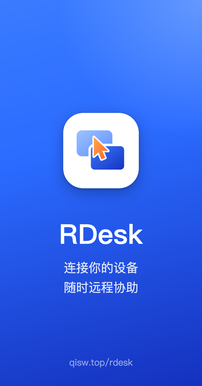
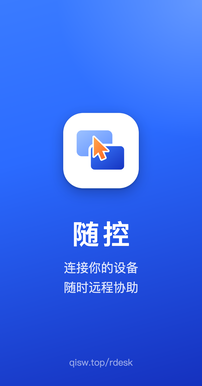
feat: 应用改名为「随控」
- 安装后显示名：Android 桌面、macOS（菜单、访达/程序坞本地化显示名，包路径仍为
  rdesk.app）、Windows 窗口标题、托盘、文件说明、开始菜单与桌面快捷方式均为「随控」
- 应用内文案、通知、无障碍服务名称统一为随控；修正 macOS 菜单残留的 APP_NAME
  占位符和 com.example 版权信息
- 安装器：名称、侧栏图与中文文案改为随控；升级时删除旧的 RDesk 快捷方式；
  安装目录、安装包文件名、Run 值名保持不变以兼容升级和应用内更新校验
- 官网模板、隐私政策与支持页改为「随控（原名 RDesk）」
- 包名、Bundle ID、服务器路径与 X-RDesk 协议头不变；iOS 显示名待下个版本与
  App Store 名称一起修改

Changed region(s): [[0.297, 0.5596, 0.7129, 0.6528]]

diff --git a/deploy/download.html b/deploy/download.html
@@ -1,7 +1,7 @@
 <!doctype html>
 <html lang="zh-CN"><head><meta charset="utf-8"><meta name="viewport" content="width=device-width,initial-scale=1">
-<title>RDesk 官网 · 电脑与手机远程连接</title>
-<meta name="description" content="RDesk 官方下载。获取 macOS、Windows、Android 安装包，或前往 App Store 安装 iPhone 与 iPad 版。查看远程开机配置与平台能力。">
+<title>随控远程官网 · 电脑与手机远程连接</title>
+<meta name="description" content="随控远程（原名 RDesk）官方下载。获取 macOS、Windows、Android 安装包，或前往 App Store 安装 iPhone 与 iPad 版。查看远程开机配置与平台能力。">
 <link rel="canonical" href="https://qisw.top/rdesk/"><link rel="icon" href="/rdesk/icon.png">
 <meta name="theme-color" content="#f5f7fb">
 <style>
@@ -11,7 +11,7 @@
 @media(prefers-color-scheme:dark){:root{--bg:#101621;--surface:#192230;--ink:#edf2fc;--muted:#abb7c9;--line:#303e52;--blue:#5b8cff;--soft:#1c2842;--power:#ff8a45;--power-soft:#3a2416}.button{background:#2b6bff}}
 @media(prefers-reduced-motion:reduce){html{scroll-behavior:auto}}
 </style></head><body>
-<header><nav aria-label="主导航"><a class="brand" href="/rdesk/"><img src="/rdesk/icon.png" alt="">RDesk</a><a href="#download">下载</a><a href="#wake">远程开机</a><a href="/rdesk/support">支持</a></nav></header>
+<header><nav aria-label="主导航"><a class="brand" href="/rdesk/"><img src="/rdesk/icon.png" alt="">随控</a><a href="#download">下载</a><a href="#wake">远程开机</a><a href="/rdesk/support">支持</a></nav></header>
 <main><section class="hero"><div class="eyebrow">RDESK · 官方网站</div><h1>电脑与手机，<br>连接到一起。</h1><p>从手边的设备访问另一台设备。同一账号的设备自动出现，点一下就能连接；家里的电脑关着，也能先远程开机。</p><div class="facts"><span>核心功能免费</span><span>四个平台入口</span><span>官方文件下载</span></div></section>
 <p class="status" role="status">2.3.0 全新界面上线：Windows、Android、Mac 可在官网下载，远程开机只需两个开关。iPhone 商店版本仍为 2.1.0；实际开机效果取决于电脑主板与网卡。</p>
 <section id="download" aria-labelledby="download-heading"><div class="section-head"><h2 id="download-heading">选择你的设备</h2><p>更新于 2026-09-28 · 各平台功能以说明为准</p></div><div class="platforms"><article class="platform" id="macos">
@@ -35,6 +35,6 @@
       <p class="requirements">iOS / iPadOS 13 或更高版本</p><p class="capability">可控制其他设备或分享屏幕；当前上架版尚不包含新的远程开机功能。</p>
       <a class="button" href="https://apps.apple.com/cn/app/id6796165712">前往 App Store<span aria-hidden="true"> ↗</span></a>
       <p class="install-note">商店仍为 2.1.0；2.3.0 新界面与远程开机尚未提交 App Store。</p></article></div></section>
-<section class="wake" id="wake"><div class="eyebrow">远程开机 · 2.3.0 起两个开关就能用</div><h2>出门在外，也能一键开机家里的电脑。</h2><p>家里一台常开的安卓手机或 Mac 作为开机助手，收到请求后在家庭局域网唤醒插网线的 Windows 电脑。电脑和手机登录同一账号即可，无需扫码配对，也不用在路由器开放公网端口。</p><div class="steps"><div><div class="number">01 / 家中助手</div><strong>打开「开机助手」</strong><span>在留在家里的安卓手机或 Mac 上登录，开启「作为家中开机助手」，保持供电联网。</span></div><div><div class="number">02 / Windows 电脑</div><strong>打开「允许远程开机」</strong><span>网线连接路由器，在电脑上开启开关；有线网卡和家中助手自动识别。主板 BIOS 需开启网络唤醒。</span></div><div><div class="number">03 / 外出时</div><strong>点橙色「开机」</strong><span>在设备列表中点关机电脑的「开机」按钮；助手离线时会自动改用其他在线助手。</span></div></div><p class="status">远程开机配套服务已部署。实际唤醒仍需电脑硬件支持，并完成家中助手配置；隔夜稳定性请按说明实测。</p><p>“已发出开机信号”只表示助手完成了广播，电脑启动并运行 RDesk 后才显示在线。当前 App Store 版本尚不包含远程开机。</p></section>
+<section class="wake" id="wake"><div class="eyebrow">远程开机 · 2.3.0 起两个开关就能用</div><h2>出门在外，也能一键开机家里的电脑。</h2><p>家里一台常开的安卓手机或 Mac 作为开机助手，收到请求后在家庭局域网唤醒插网线的 Windows 电脑。电脑和手机登录同一账号即可，无需扫码配对，也不用在路由器开放公网端口。</p><div class="steps"><div><div class="number">01 / 家中助手</div><strong>打开「开机助手」</strong><span>在留在家里的安卓手机或 Mac 上登录，开启「作为家中开机助手」，保持供电联网。</span></div><div><div class="number">02 / Windows 电脑</div><strong>打开「允许远程开机」</strong><span>网线连接路由器，在电脑上开启开关；有线网卡和家中助手自动识别。主板 BIOS 需开启网络唤醒。</span></div><div><div class="number">03 / 外出时</div><strong>点橙色「开机」</strong><span>在设备列表中点关机电脑的「开机」按钮；助手离线时会自动改用其他在线助手。</span></div></div><p class="status">远程开机配套服务已部署。实际唤醒仍需电脑硬件支持，并完成家中助手配置；隔夜稳定性请按说明实测。</p><p>“已发出开机信号”只表示助手完成了广播，电脑启动并运行随控后才显示在线。当前 App Store 版本尚不包含远程开机。</p></section>
 <section class="faq"><h2>下载前，你可能想了解</h2><details><summary>以后可以在应用里更新吗？</summary><p>从 2.2.1 开始，应用运行时会自动检查新版，也可进入「设置 → 关于 → 检查更新」。Windows、Android、Mac 可以下载并校验安装包，再按系统提示完成安装。旧版请先从官网手动安装一次。Mac 仍需拖入应用程序替换；iPhone 通过 App Store 更新，商店尚未发布的版本不会被当作更新。应用关闭时不会收到更新推送。</p></details><details><summary>哪些设备可以被远程操作？</summary><p>Android 与 macOS 可作为被控端。Windows 当前提供控制端与远程开机配置，尚不支持共享 Windows 桌面给别人操作。iPhone/iPad 可作控制端，也可分享屏幕，但不能接收远程触控。</p></details><details><summary>iPhone 可以像安卓一样下载文件安装吗？</summary><p>官网的苹果手机按钮会前往 App Store。普通 IPA 文件不能像 APK 一样在任意 iPhone 上直接安装。</p></details><details><summary>安装后需要开启哪些权限？</summary><p>Mac 被控需要屏幕录制与辅助功能权限；Android 屏幕共享和远程操作按应用提示授权。作为开机助手时只需网络、通知与后台运行，不要求录屏或无障碍；Mac 助手不需要额外权限。</p></details><details><summary>远程开机为什么需要实测？</summary><p>不同主板、网卡、Windows 电源状态及安卓后台策略存在差异。先测试睡眠与刚关机，再测试蜂窝网络、隔夜、24 小时和 48 小时。失败时先看设备页里家中助手是否在线，再检查 BIOS、网卡的网络唤醒设置和 Windows「快速启动」。</p></details><details><summary>我的系统版本能安装吗？</summary><p>Mac 新版要求 macOS 12 或更高版本；Windows 支持 Windows 10/11 x64；Android 要求 7.0 或更高版本；App Store 当前版本支持 iOS/iPadOS 13 或更高版本，之后的新版需要 iOS/iPadOS 15。请下载与你设备相符的安装包。</p></details></section></main>
-<footer><span>© 2026 RDesk · QSW</span><a href="https://qisw.top/rdesk/dl/SHA256SUMS.txt">全部文件校验值</a><a href="/rdesk/support">技术支持</a><a href="/rdesk/privacy">隐私政策</a><a href="mailto:641742030@qq.com">联系我们</a></footer></body></html>
+<footer><span>© 2026 随控远程 · QSW</span><a href="https://qisw.top/rdesk/dl/SHA256SUMS.txt">全部文件校验值</a><a href="/rdesk/support">技术支持</a><a href="/rdesk/privacy">隐私政策</a><a href="mailto:641742030@qq.com">联系我们</a></footer></body></html>

diff --git a/deploy/index.html b/deploy/index.html
@@ -1,7 +1,7 @@
 <!doctype html>
 <html lang="zh-CN"><head><meta charset="utf-8"><meta name="viewport" content="width=device-width,initial-scale=1">
-<title>RDesk 官网 · 电脑与手机远程连接</title>
-<meta name="description" content="RDesk 官方下载。获取 macOS、Windows、Android 安装包，或前往 App Store 安装 iPhone 与 iPad 版。查看远程开机配置与平台能力。">
+<title>随控远程官网 · 电脑与手机远程连接</title>
+<meta name="description" content="随控远程（原名 RDesk）官方下载。获取 macOS、Windows、Android 安装包，或前往 App Store 安装 iPhone 与 iPad 版。查看远程开机配置与平台能力。">
 <link rel="canonical" href="https://qisw.top/rdesk/"><link rel="icon" href="/rdesk/icon.png">
 <meta name="theme-color" content="#f5f7fb">
 <style>
@@ -11,7 +11,7 @@
 @media(prefers-color-scheme:dark){:root{--bg:#101621;--surface:#192230;--ink:#edf2fc;--muted:#abb7c9;--line:#303e52;--blue:#5b8cff;--soft:#1c2842;--power:#ff8a45;--power-soft:#3a2416}.button{background:#2b6bff}}
 @media(prefers-reduced-motion:reduce){html{scroll-behavior:auto}}
 </style></head><body>
-<header><nav aria-label="主导航"><a class="brand" href="/rdesk/"><img src="/rdesk/icon.png" alt="">RDesk</a><a href="#download">下载</a><a href="#wake">远程开机</a><a href="/rdesk/support">支持</a></nav></header>
+<header><nav aria-label="主导航"><a class="brand" href="/rdesk/"><img src="/rdesk/icon.png" alt="">随控</a><a href="#download">下载</a><a href="#wake">远程开机</a><a href="/rdesk/support">支持</a></nav></header>
 <main><section class="hero"><div class="eyebrow">RDESK · 官方网站</div><h1>电脑与手机，<br>连接到一起。</h1><p>从手边的设备访问另一台设备。同一账号的设备自动出现，点一下就能连接；家里的电脑关着，也能先远程开机。</p><div class="facts"><span>核心功能免费</span><span>四个平台入口</span><span>官方文件下载</span></div></section>
 <p class="status" role="status">2.3.0 全新界面上线：Windows、Android、Mac 可在官网下载，远程开机只需两个开关。iPhone 商店版本仍为 2.1.0；实际开机效果取决于电脑主板与网卡。</p>
 <section id="download" aria-labelledby="download-heading"><div class="section-head"><h2 id="download-heading">选择你的设备</h2><p>更新于 2026-09-28 · 各平台功能以说明为准</p></div><div class="platforms"><article class="platform" id="macos">
@@ -35,6 +35,6 @@
       <p class="requirements">iOS / iPadOS 13 或更高版本</p><p class="capability">可控制其他设备或分享屏幕；当前上架版尚不包含新的远程开机功能。</p>
       <a class="button" href="https://apps.apple.com/cn/app/id6796165712">前往 App Store<span aria-hidden="true"> ↗</span></a>
       <p class="install-note">商店仍为 2.1.0；2.3.0 新界面与远程开机尚未提交 App Store。</p></article></div></section>
-<section class="wake" id="wake"><div class="eyebrow">远程开机 · 2.3.0 起两个开关就能用</div><h2>出门在外，也能一键开机家里的电脑。</h2><p>家里一台常开的安卓手机或 Mac 作为开机助手，收到请求后在家庭局域网唤醒插网线的 Windows 电脑。电脑和手机登录同一账号即可，无需扫码配对，也不用在路由器开放公网端口。</p><div class="steps"><div><div class="number">01 / 家中助手</div><strong>打开「开机助手」</strong><span>在留在家里的安卓手机或 Mac 上登录，开启「作为家中开机助手」，保持供电联网。</span></div><div><div class="number">02 / Windows 电脑</div><strong>打开「允许远程开机」</strong><span>网线连接路由器，在电脑上开启开关；有线网卡和家中助手自动识别。主板 BIOS 需开启网络唤醒。</span></div><div><div class="number">03 / 外出时</div><strong>点橙色「开机」</strong><span>在设备列表中点关机电脑的「开机」按钮；助手离线时会自动改用其他在线助手。</span></div></div><p class="status">远程开机配套服务已部署。实际唤醒仍需电脑硬件支持，并完成家中助手配置；隔夜稳定性请按说明实测。</p><p>“已发出开机信号”只表示助手完成了广播，电脑启动并运行 RDesk 后才显示在线。当前 App Store 版本尚不包含远程开机。</p></section>
+<section class="wake" id="wake"><div class="eyebrow">远程开机 · 2.3.0 起两个开关就能用</div><h2>出门在外，也能一键开机家里的电脑。</h2><p>家里一台常开的安卓手机或 Mac 作为开机助手，收到请求后在家庭局域网唤醒插网线的 Windows 电脑。电脑和手机登录同一账号即可，无需扫码配对，也不用在路由器开放公网端口。</p><div class="steps"><div><div class="number">01 / 家中助手</div><strong>打开「开机助手」</strong><span>在留在家里的安卓手机或 Mac 上登录，开启「作为家中开机助手」，保持供电联网。</span></div><div><div class="number">02 / Windows 电脑</div><strong>打开「允许远程开机」</strong><span>网线连接路由器，在电脑上开启开关；有线网卡和家中助手自动识别。主板 BIOS 需开启网络唤醒。</span></div><div><div class="number">03 / 外出时</div><strong>点橙色「开机」</strong><span>在设备列表中点关机电脑的「开机」按钮；助手离线时会自动改用其他在线助手。</span></div></div><p class="status">远程开机配套服务已部署。实际唤醒仍需电脑硬件支持，并完成家中助手配置；隔夜稳定性请按说明实测。</p><p>“已发出开机信号”只表示助手完成了广播，电脑启动并运行随控后才显示在线。当前 App Store 版本尚不包含远程开机。</p></section>
 <section class="faq"><h2>下载前，你可能想了解</h2><details><summary>以后可以在应用里更新吗？</summary><p>从 2.2.1 开始，应用运行时会自动检查新版，也可进入「设置 → 关于 → 检查更新」。Windows、Android、Mac 可以下载并校验安装包，再按系统提示完成安装。旧版请先从官网手动安装一次。Mac 仍需拖入应用程序替换；iPhone 通过 App Store 更新，商店尚未发布的版本不会被当作更新。应用关闭时不会收到更新推送。</p></details><details><summary>哪些设备可以被远程操作？</summary><p>Android 与 macOS 可作为被控端。Windows 当前提供控制端与远程开机配置，尚不支持共享 Windows 桌面给别人操作。iPhone/iPad 可作控制端，也可分享屏幕，但不能接收远程触控。</p></details><details><summary>iPhone 可以像安卓一样下载文件安装吗？</summary><p>官网的苹果手机按钮会前往 App Store。普通 IPA 文件不能像 APK 一样在任意 iPhone 上直接安装。</p></details><details><summary>安装后需要开启哪些权限？</summary><p>Mac 被控需要屏幕录制与辅助功能权限；Android 屏幕共享和远程操作按应用提示授权。作为开机助手时只需网络、通知与后台运行，不要求录屏或无障碍；Mac 助手不需要额外权限。</p></details><details><summary>远程开机为什么需要实测？</summary><p>不同主板、网卡、Windows 电源状态及安卓后台策略存在差异。先测试睡眠与刚关机，再测试蜂窝网络、隔夜、24 小时和 48 小时。失败时先看设备页里家中助手是否在线，再检查 BIOS、网卡的网络唤醒设置和 Windows「快速启动」。</p></details><details><summary>我的系统版本能安装吗？</summary><p>Mac 新版要求 macOS 12 或更高版本；Windows 支持 Windows 10/11 x64；Android 要求 7.0 或更高版本；App Store 当前版本支持 iOS/iPadOS 13 或更高版本，之后的新版需要 iOS/iPadOS 15。请下载与你设备相符的安装包。</p></details></section></main>
-<footer><span>© 2026 RDesk · QSW</span><a href="https://qisw.top/rdesk/dl/SHA256SUMS.txt">全部文件校验值</a><a href="/rdesk/support">技术支持</a><a href="/rdesk/privacy">隐私政策</a><a href="mailto:641742030@qq.com">联系我们</a></footer></body></html>
+<footer><span>© 2026 随控远程 · QSW</span><a href="https://qisw.top/rdesk/dl/SHA256SUMS.txt">全部文件校验值</a><a href="/rdesk/support">技术支持</a><a href="/rdesk/privacy">隐私政策</a><a href="mailto:641742030@qq.com">联系我们</a></footer></body></html>

diff --git a/deploy/support.html b/deploy/support.html
@@ -3,7 +3,7 @@
 <head>
 <meta charset="utf-8">
 <meta name="viewport" content="width=device-width, initial-scale=1">
-<title>RDesk 技术支持</title>
+<title>随控技术支持</title>
 <style>
   :root {
     --text: #1a1a1a;
@@ -39,7 +39,7 @@
 </head>
 <body>
 
-<h1>RDesk 技术支持</h1>
+<h1>随控技术支持</h1>
 <p class="meta">远程桌面工具 · Windows / iOS 可作主控端 · Android / macOS 可作被控端</p>
 
 <div class="contact">
@@ -49,11 +49,11 @@
 
 <h2>快速开始</h2>
 
-<p>RDesk 需要<strong>两台设备</strong>：一台作为被控端（被查看和操作的设备），
+<p>随控需要<strong>两台设备</strong>：一台作为被控端（被查看和操作的设备），
 另一台作为主控端（发起连接的设备）。</p>
 
 <ol>
-  <li>在<strong>被控设备</strong>（Mac 或安卓）上打开 RDesk，进入「协助」（电脑上为「远程协助」），
+  <li>在<strong>被控设备</strong>（Mac 或安卓）上打开随控，进入「协助」（电脑上为「远程协助」），
       在「允许别人控制本设备」中记下本机设备码与临时验证码；Mac 需打开「允许远程控制本机」</li>
   <li>在<strong>主控设备</strong>上进入同一页面，在「远程控制其他设备」填入对方设备码</li>
   <li>填入验证码后点「远程控制」；验证码也可以不填，由对方在被控设备上同意</li>
@@ -67,7 +67,7 @@
 <div class="card">
   <p>说明被控端当前不在线。请检查：</p>
   <ul>
-    <li>被控设备上的 RDesk 是否正在运行（不能只是装了但没打开）</li>
+    <li>被控设备上的随控是否正在运行（不能只是装了但没打开）</li>
     <li>被控设备是否联网</li>
     <li>设备 ID 是否输入正确（9 位数字）</li>
   </ul>
@@ -76,14 +76,14 @@
 <h3>连接成功但画面是黑的（macOS 被控端）</h3>
 <div class="card">
   <p>macOS 需要手动授予屏幕录制权限：</p>
-  <p>打开「系统设置 → 隐私与安全性 → 屏幕录制」，找到 RDesk 并打开开关。
-  授权后需要重新启动 RDesk 才会生效。</p>
+  <p>打开「系统设置 → 隐私与安全性 → 屏幕录制」，找到随控并打开开关。
+  授权后需要重新启动随控才会生效。</p>
   <p>如果还需要用鼠标键盘操作对方电脑，同一位置的「辅助功能」也要一并授予。</p>
 </div>
 
 <h3>iOS 设备能被别人看到，但对方操作不了</h3>
 <div class="card">
-  <p>这是 iOS 系统的限制，不是故障。iOS 上的 RDesk 可以共享屏幕画面，
+  <p>这是 iOS 系统的限制，不是故障。iOS 上的随控可以共享屏幕画面，
   但系统不允许第三方 App 接收远程触控指令。</p>
   <p>如果需要完整的远程操控，请把 Android 或 macOS 设备作为被控端。Windows 当前仅支持作为主控端。</p>
 </div>
@@ -91,18 +91,18 @@
 <h3>如何在外出时开启家中的 Windows 电脑</h3>
 <p>2.3.0 起只需两个开关，电脑和手机登录同一账号即可，不再需要扫码配对：</p>
 <ol>
-  <li><strong>家中助手</strong>：在留在家里、长期供电联网的安卓手机或 Mac 上打开「远程开机」，开启「作为家中开机助手」。Mac 需保持唤醒并运行 RDesk，可开启「登录 Mac 后自动打开 RDesk」。</li>
-  <li><strong>Windows 电脑</strong>：用网线连接路由器，在「远程开机」打开「允许远程开机」。RDesk 自动识别有线网卡和家中助手，并开启登录后自动启动；主板 BIOS 需开启网络唤醒（Wake on LAN），页面内有设置说明。</li>
+  <li><strong>家中助手</strong>：在留在家里、长期供电联网的安卓手机或 Mac 上打开「远程开机」，开启「作为家中开机助手」。Mac 需保持唤醒并运行随控，可开启「登录 Mac 后自动打开随控」。</li>
+  <li><strong>Windows 电脑</strong>：用网线连接路由器，在「远程开机」打开「允许远程开机」。随控自动识别有线网卡和家中助手，并开启登录后自动启动；主板 BIOS 需开启网络唤醒（Wake on LAN），页面内有设置说明。</li>
   <li><strong>外出时</strong>：在设备列表中，关机的电脑会显示橙色「开机」按钮，点一下即可。绑定的助手离线时会自动改用其他在线助手。</li>
 </ol>
-<p>“已发出开机信号”只表示家中助手完成了广播；电脑启动并运行 RDesk 后才会显示“在线”。不同主板、网卡和 Windows 电源设置差异较大，请先测试睡眠和刚关机，再测试隔夜与长时间关机。无需路由器端口映射；App Store 当前的 2.1.0 版尚不包含远程开机，Windows 版暂不支持被远程控制。</p>
+<p>“已发出开机信号”只表示家中助手完成了广播；电脑启动并运行随控后才会显示“在线”。不同主板、网卡和 Windows 电源设置差异较大，请先测试睡眠和刚关机，再测试隔夜与长时间关机。无需路由器端口映射；App Store 当前的 2.1.0 版尚不包含远程开机，Windows 版暂不支持被远程控制。</p>
 
 <h3>手机端的「电脑键盘」支持哪些按键</h3>
 <div class="card">
   <p>远控会话中点击底部「键盘」，或打开「操作 → 电脑键盘」即可使用。
   「输入法」页可发送一段中文或英文文字；「电脑键盘」页的字母、数字、空格、
   删除和回车支持 Android 与 macOS 被控端。Esc、Tab、方向键及全选、复制、
-  粘贴、剪切、撤销、重做目前仅支持 macOS 被控端，并且需要授予 RDesk
+  粘贴、剪切、撤销、重做目前仅支持 macOS 被控端，并且需要授予 随控
   「辅助功能」权限。</p>
   <p>安卓或无法识别远端系统时，不支持的桌面按键会直接停用，避免出现点击后无响应。</p>
 </div>

diff --git a/flutter_client/lib/src/screens/wake_screen.dart b/flutter_client/lib/src/screens/wake_screen.dart
@@ -276,7 +276,7 @@ class _LocalPcCardState extends State<_LocalPcCard> {
     final String status;
     final RdTone tone;
     if (wake.localWakePending) {
-      status = '等待家中开机助手：在家里的安卓手机或 Mac 上打开 RDesk，开启「开机助手」后自动完成';
+      status = '等待家中开机助手：在家里的安卓手机或 Mac 上打开随控，开启「开机助手」后自动完成';
       tone = RdTone.warning;
     } else if (target != null) {
       final helperOnline = target.agentOnline;
@@ -284,7 +284,7 @@ class _LocalPcCardState extends State<_LocalPcCard> {
           ? '已开启'
           : helperOnline
               ? '已开启 · 家中助手：${helper.name}（在线）'
-              : '已开启，但家中助手「${helper.name}」离线，现在无法开机。请在那台设备上打开 RDesk →「远程开机」→ 开启开机助手，并让它保持开机不睡眠';
+              : '已开启，但家中助手「${helper.name}」离线，现在无法开机。请在那台设备上打开随控 →「远程开机」→ 开启开机助手，并让它保持开机不睡眠';
       tone = helperOnline ? RdTone.online : RdTone.warning;
     } else {
       status = '开启后，可以在手机上一键开机这台电脑';
@@ -376,7 +376,7 @@ class _LocalPcCardState extends State<_LocalPcCard> {
         const SizedBox(height: 4),
         SwitchListTile(
           contentPadding: EdgeInsets.zero,
-          title: const Text('登录 Windows 后自动启动 RDesk'),
+          title: const Text('登录 Windows 后自动启动随控'),
           subtitle: const Text('电脑开机后自动上线，才能确认开机成功并连接'),
           value: _startup ?? false,
           onChanged: _startup == null
@@ -561,9 +561,9 @@ class _HelperCardState extends State<_HelperCard> {
           const SizedBox(height: 8),
           SwitchListTile(
             contentPadding: EdgeInsets.zero,
-            title: const Text('登录 Mac 后自动打开 RDesk'),
+            title: const Text('登录 Mac 后自动打开随控'),
             subtitle: Text(_login.requiresApproval
-                ? '需要在系统设置的「登录项」中允许 RDesk'
+                ? '需要在系统设置的「登录项」中允许随控'
                 : 'Mac 重启或更新后，助手会在同一家庭网络自动恢复'),
             value: _login.enabled || _login.requiresApproval,
             onChanged: (v) async {
@@ -582,7 +582,7 @@ class _HelperCardState extends State<_HelperCard> {
           const SizedBox(height: 8),
           Row(children: [
             Expanded(
-              child: Text('建议保持充电，并允许 RDesk 后台运行，避免被系统休眠。', style: t.bodySmall),
+              child: Text('建议保持充电，并允许随控后台运行，避免被系统休眠。', style: t.bodySmall),
             ),
             TextButton(
                 onPressed: wake.agent.openBatterySettings,
@@ -614,7 +614,7 @@ class _TargetList extends StatelessWidget {
                 Column(crossAxisAlignment: CrossAxisAlignment.start, children: [
               Text('还没有可开机的电脑', style: t.titleSmall),
               const SizedBox(height: 4),
-              Text('在需要开机的 Windows 电脑上安装 RDesk，登录同一账号，打开「远程开机」开启即可。',
+              Text('在需要开机的 Windows 电脑上安装随控，登录同一账号，打开「远程开机」开启即可。',
                   style: t.bodySmall),
             ]),
           ),

diff --git a/deploy/privacy.html b/deploy/privacy.html
@@ -3,7 +3,7 @@
 <head>
 <meta charset="utf-8">
 <meta name="viewport" content="width=device-width, initial-scale=1">
-<title>RDesk 隐私政策</title>
+<title>随控隐私政策</title>
 <style>
   :root {
     --text: #1a1a1a;
@@ -37,10 +37,10 @@
 </head>
 <body>
 
-<h1>RDesk 隐私政策</h1>
+<h1>随控隐私政策</h1>
 <p class="meta">最后更新：2026 年 9 月 20 日</p>
 
-<p>RDesk（以下简称「本应用」）是一款远程桌面工具，用于在你自己的设备之间建立远程连接。本政策说明我们收集哪些信息、如何使用，以及你拥有哪些权利。</p>
+<p>随控（原名随控，以下简称「本应用」）是一款远程桌面工具，用于在你自己的设备之间建立远程连接。本政策说明我们收集哪些信息、如何使用，以及你拥有哪些权利。</p>
 
 <div class="note">
 远程会话数据通过 HTTPS 加密通道传输。为完成设备间的画面中转，
@@ -76,7 +76,7 @@
 <p>服务器保存开机状态、时间及错误码，最长 7 天且每账号最多 50 条；不保存原始设备令牌。安卓使用系统 Keystore 加密设备凭据，Windows 使用系统安全存储；安卓另保留最多 100 个请求标识及执行结果用于防止重复发送。停止助手清除其本机凭据。</p>
 
 <h3>扫码配对与相机</h3>
-<p>支持扫码的新版本仅在你点击“开启相机扫码”后申请相机权限，用于读取电脑上的 RDesk 配对二维码。相机画面不上传、不保存；也可输入配对码完成相同操作。退出扫码页、切到后台或退出账号后停止扫描。</p>
+<p>支持扫码的新版本仅在你点击“开启相机扫码”后申请相机权限，用于读取电脑上的随控配对二维码。相机画面不上传、不保存；也可输入配对码完成相同操作。退出扫码页、切到后台或退出账号后停止扫描。</p>
 <p>配对码有效期为 5 分钟，只用于同账号确认。二维码不包含账号密码、任意服务器地址或电脑长期凭据。电脑长期凭据先保存在 Windows 安全存储，再通过已配置的 HTTPS 服务登记摘要；手机不会取得该凭据。</p>
 
 <h2>三、我们不收集的信息</h2>

diff --git a/flutter_client/lib/src/screens/settings_screen.dart b/flutter_client/lib/src/screens/settings_screen.dart
@@ -99,7 +99,7 @@ class _SettingsScreenState extends State<SettingsScreen> {
                       icon: Icons.move_to_inbox_outlined,
                       iconColor: AppTheme.primaryBlue,
                       title: '关闭窗口时最小化到托盘',
-                      subtitle: '保持在线；右下角图标可打开或退出 RDesk',
+                      subtitle: '保持在线；右下角图标可打开或退出随控',
                       value: settings.closeToTray,
                       onChanged: settings.setCloseToTray),
                 ],
@@ -385,7 +385,7 @@ class _SettingsScreenState extends State<SettingsScreen> {
         const UpdateCard(),
         const ListTile(
             leading: Icon(Icons.connected_tv),
-            title: Text('RDesk'),
+            title: Text('随控'),
             subtitle: Text('连接你的设备，随时远程协助')),
         FutureBuilder<PackageInfo>(
             future: _package,
@@ -553,7 +553,7 @@ class _LaunchAtLoginTileState extends State<_LaunchAtLoginTile> {
     final subtitle = _failed
         ? '暂时无法读取，可在系统设置中修改'
         : approval
-            ? '需要在系统设置的「登录项」中允许 RDesk'
+            ? '需要在系统设置的「登录项」中允许随控'
             : _isMac
                 ? '重启后自动上线，保持可被远程控制'
                 : '电脑开机后自动上线，远程开机后才能确认并连接';
@@ -561,7 +561,7 @@ class _LaunchAtLoginTileState extends State<_LaunchAtLoginTile> {
       _SwitchTile(
           icon: Icons.power_settings_new_rounded,
           iconColor: AppTheme.primaryBlue,
-          title: _isMac ? '登录 Mac 后自动打开 RDesk' : '开机后自动启动 RDesk',
+          title: _isMac ? '登录 Mac 后自动打开随控' : '开机后自动启动随控',
           subtitle: subtitle,
           value: state != null && (state.enabled || approval),
           onChanged: state == null || !state.supported || _busy ? null : _set),

diff --git a/flutter_client/lib/src/screens/unattended_setup_screen.dart b/flutter_client/lib/src/screens/unattended_setup_screen.dart
@@ -182,7 +182,7 @@ class _UnattendedSetupScreenState extends State<UnattendedSetupScreen> {
                   SizedBox(width: 10),
                   Expanded(
                     child: Text(
-                      '设置完成后，设备重启时 RDesk 会自动运行并等待远程连接。',
+                      '设置完成后，设备重启时随控会自动运行并等待远程连接。',
                       style: TextStyle(fontSize: 12.5, height: 1.5),
                     ),
                   ),
@@ -203,14 +203,14 @@ class _UnattendedSetupScreenState extends State<UnattendedSetupScreen> {
 
   String get _platformStartupInstructions {
     if (Platform.isAndroid) {
-      return '1. 前往「设置 > 应用 > RDesk > 电池」，选择「不受限制」\n'
-          '2. 在「设置 > 应用 > 自启动管理」中允许 RDesk 自启动\n'
-          '3. 确保无障碍服务已开启（在 RDesk 设置页的安卓被控端区域操作）';
+      return '1. 前往「设置 > 应用 > 随控 > 电池」，选择「不受限制」\n'
+          '2. 在「设置 > 应用 > 自启动管理」中允许随控自启动\n'
+          '3. 确保无障碍服务已开启（在随控设置页的安卓被控端区域操作）';
     }
     if (Platform.isMacOS) {
       return '1. 打开「系统设置 > 通用 > 登录项与扩展」\n'
-          '2. 点击「+」添加 RDesk 到登录项\n'
-          '3. 确保 RDesk 拥有「屏幕录制」和「辅助功能」权限';
+          '2. 点击「+」添加随控到登录项\n'
+          '3. 确保随控拥有「屏幕录制」和「辅助功能」权限';
     }
     return '请根据您的操作系统配置应用开机自启动。';
   }

diff --git a/flutter_client/lib/src/providers/android_host_provider.dart b/flutter_client/lib/src/providers/android_host_provider.dart
@@ -142,12 +142,12 @@ class AndroidHostProvider extends ChangeNotifier {
         'xiaomi' ||
         'redmi' ||
         'poco' =>
-          '建议在 MIUI/HyperOS 的“自启动”和“无限制电量”中允许 RDesk 常驻。',
-        'oppo' || 'oneplus' || 'realme' => '建议在系统管家里允许 RDesk 自启动，并关闭后台冻结/耗电限制。',
-        'vivo' || 'iqoo' => '建议在 i 管家中允许 RDesk 后台高耗电、自启动和悬浮窗。',
-        'huawei' || 'honor' => '建议在启动管理中允许 RDesk 自启动，并关闭电池优化。',
-        'samsung' => '建议把 RDesk 加入“永不休眠的应用”，避免系统回收。',
-        _ => '如果系统有“自启动/后台保护/无限制电量”设置，建议把 RDesk 加入白名单。',
+          '建议在 MIUI/HyperOS 的“自启动”和“无限制电量”中允许随控常驻。',
+        'oppo' || 'oneplus' || 'realme' => '建议在系统管家里允许随控自启动，并关闭后台冻结/耗电限制。',
+        'vivo' || 'iqoo' => '建议在 i 管家中允许随控后台高耗电、自启动和悬浮窗。',
+        'huawei' || 'honor' => '建议在启动管理中允许随控自启动，并关闭电池优化。',
+        'samsung' => '建议把随控加入“永不休眠的应用”，避免系统回收。',
+        _ => '如果系统有“自启动/后台保护/无限制电量”设置，建议把随控加入白名单。',
       };
 
   /// 托管启动后必须成套执行的动作。

diff --git a/flutter_client/test/login_item_service_test.dart b/flutter_client/test/login_item_service_test.dart
@@ -76,20 +76,20 @@ void main() {
       appRouter.go('/settings');
       await tester.pumpWidget(const RDeskApp());
       await tester.pump(const Duration(milliseconds: 500));
-      expect(find.text('开机后自动启动 RDesk'), findsOneWidget);
+      expect(find.text('开机后自动启动随控'), findsOneWidget);
     }, variant: TargetPlatformVariant.only(TargetPlatform.windows));
     testWidgets('Mac 常规设置显示登录后自动打开', (tester) async {
       appRouter.go('/settings');
       await tester.pumpWidget(const RDeskApp());
       await tester.pump(const Duration(milliseconds: 500));
-      expect(find.text('登录 Mac 后自动打开 RDesk'), findsOneWidget);
+      expect(find.text('登录 Mac 后自动打开随控'), findsOneWidget);
     }, variant: TargetPlatformVariant.only(TargetPlatform.macOS));
     testWidgets('手机设置不显示开机启动', (tester) async {
       appRouter.go('/settings');
       await tester.pumpWidget(const RDeskApp());
       await tester.pump(const Duration(milliseconds: 500));
-      expect(find.text('开机后自动启动 RDesk'), findsNothing);
-      expect(find.text('登录 Mac 后自动打开 RDesk'), findsNothing);
+      expect(find.text('开机后自动启动随控'), findsNothing);
+      expect(find.text('登录 Mac 后自动打开随控'), findsNothing);
     }, variant: TargetPlatformVariant.only(TargetPlatform.android));
   });
 }

diff --git a/flutter_client/lib/src/providers/app_update_provider.dart b/flutter_client/lib/src/providers/app_update_provider.dart
@@ -232,12 +232,12 @@ class AppUpdateProvider extends ChangeNotifier {
       phase =
           installPermissionRequired ? UpdatePhase.ready : UpdatePhase.handedOff;
       message = installPermissionRequired
-          ? '请允许 RDesk 安装应用，返回后再次点击安装'
+          ? '请允许随控安装应用，返回后再次点击安装'
           : result == 'store'
               ? '已打开 App Store，请在商店完成更新'
               : target.platform == 'macos'
-                  ? '已打开安装包，请将 RDesk 拖入「应用程序」并替换旧版，再重新打开'
-                  : '已打开系统安装程序，请按提示完成更新后重新打开 RDesk';
+                  ? '已打开安装包，请将随控拖入「应用程序」并替换旧版，再重新打开'
+                  : '已打开系统安装程序，请按提示完成更新后重新打开随控';
     } catch (error) {
       if (_disposed) return;
       phase = UpdatePhase.failed;
@@ -250,7 +250,7 @@ class AppUpdateProvider extends ChangeNotifier {
     try {
       await service.openInstallSettings();
     } catch (_) {
-      message = '无法打开设置，请在系统设置中允许 RDesk 安装应用';
+      message = '无法打开设置，请在系统设置中允许随控安装应用';
       _notify();
     }
   }

diff --git a/flutter_client/lib/src/widgets/app_update_widgets.dart b/flutter_client/lib/src/widgets/app_update_widgets.dart
@@ -57,7 +57,7 @@ class UpdateBanner extends StatelessWidget {
                         crossAxisAlignment: WrapCrossAlignment.center,
                         spacing: 12,
                         children: [
-                          Text('RDesk ${update.release!.version} 可更新'),
+                          Text('随控 ${update.release!.version} 可更新'),
                           TextButton(
                               onPressed: () =>
                                   context.go('/settings?section=about'),
@@ -83,7 +83,7 @@ class UpdateCard extends StatelessWidget {
               title: Text(update.release!.isStore ? '前往 App Store' : '安装更新'),
               content: Text(update.release!.isStore
                   ? '将在 App Store 中完成更新。'
-                  : '安装可能需要关闭 RDesk，并中断正在进行的屏幕共享。请先保存工作，按系统提示完成安装。'),
+                  : '安装可能需要关闭随控，并中断正在进行的屏幕共享。请先保存工作，按系统提示完成安装。'),
               actions: [
                 TextButton(
                     onPressed: () => Navigator.pop(context, false),

diff --git a/flutter_client/android/app/src/main/kotlin/com/qsw/rdesk/wake/WakeRelayService.kt b/flutter_client/android/app/src/main/kotlin/com/qsw/rdesk/wake/WakeRelayService.kt
@@ -31,7 +31,7 @@ class WakeRelayService:Service() {
     private fun notification(paused:Boolean):Notification {
         val stop=PendingIntent.getService(this,NOTIFICATION,Intent(this,WakeRelayService::class.java).setAction(STOP),PendingIntent.FLAG_UPDATE_CURRENT or PendingIntent.FLAG_IMMUTABLE)
         val open=PendingIntent.getActivity(this,NOTIFICATION,Intent(this,MainActivity::class.java),PendingIntent.FLAG_UPDATE_CURRENT or PendingIntent.FLAG_IMMUTABLE)
-        return NotificationCompat.Builder(this,"rdesk_wake").setSmallIcon(R.drawable.ic_stat_rdesk).setContentTitle("RDesk 开机助手")
+        return NotificationCompat.Builder(this,"rdesk_wake").setSmallIcon(R.drawable.ic_stat_rdesk).setContentTitle("随控开机助手")
             .setContentText(if(paused)"已离开家庭 Wi-Fi，回到同一网络后自动继续" else "通过家中 Wi-Fi 接收开机请求").setContentIntent(open).setOngoing(true).addAction(0,"停止",stop).build()
     }
     private fun showPaused(paused:Boolean)=runCatching{getSystemService(NotificationManager::class.java).notify(NOTIFICATION,notification(paused))}
